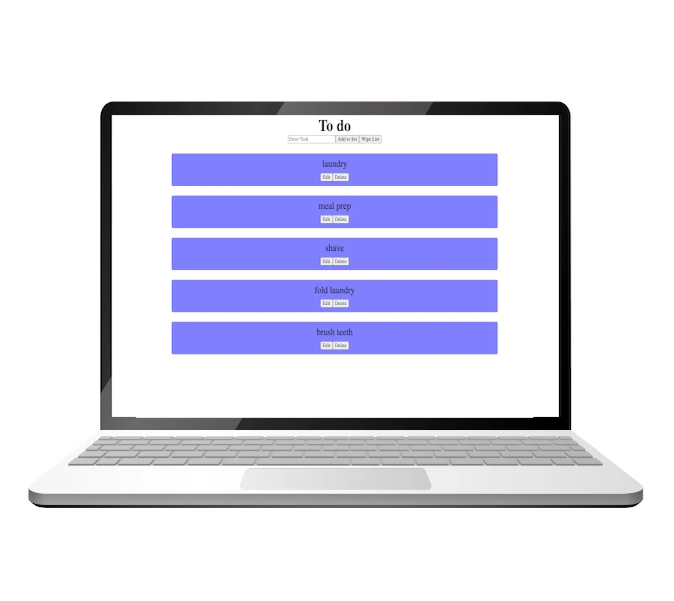
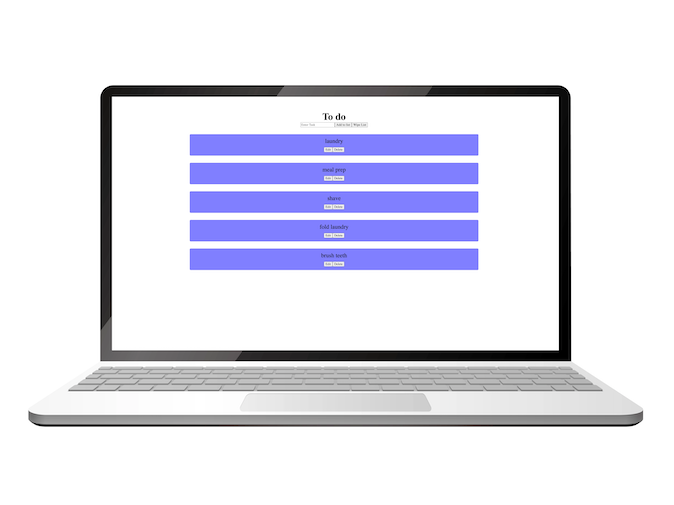
added new pictures for the fodmap project; the old pictures were from version 1 when you could only type a specific ingredient in. Changed the naming of pictures for the barbershop site. Deleted some unneeded pictures, which I believe was from the template. Changed the todoApp pictures as they were 

diff --git a/index.html b/index.html
@@ -74,10 +74,10 @@
 										<li><a target="_blank" href="https://github.com/andmperotti/CleanCuts">Code <i class="fa-solid fa-code" style="color: #000000;"></i></a></li>
 									</ul>
 									<img
-										srcset="images/imacBarberMobile.WebP 249w, images/imacBarberTablet.WebP 674w, images/imacBarber.WebP 979w"
+										srcset="images/cleanCutsMobile.WebP 249w, images/cleanCutsTablet.WebP 674w, images/cleanCuts.WebP 979w"
 										sizes="(min-width: 1700px) 979px, (min-width: 1300px) 806px, (min-width: 1240px) 717px, (min-width: 960px) calc(29.62vw + 356px), (min-width: 500px) calc(65vw - 65px), (min-width: 380px) calc(70vw - 56px), calc(46.67vw + 63px)"
 										class="projectPic" 
-										src="/images/imacBarber.WebP"
+										src="/images/cleanCuts.WebP"
 										alt="Barbershop website image"
 										id="barber-imac">
 								</header>
@@ -96,7 +96,7 @@
 									<li><a target="_blank" href="https://github.com/andmperotti/FODMapChecker">Code <i class="fa-solid fa-code" style="color: #000000;"></i></a></li>
 								</ul>
 								<img
-									srcset="images/fodmapmobileMobile.WebP 249w, images/fodmapmobileTablet.WebP 674w, images/fodmapmobile.WebP 979w"
+									srcset="images/fodmapMobile.WebP 249w, images/fodmapTablet.WebP 674w, images/fodmap.WebP 979w"
 									sizes="(min-width: 1700px) 979px, (min-width: 1300px) 806px, (min-width: 1240px) 717px, (min-width: 960px) calc(29.62vw + 356px), (min-width: 500px) calc(65vw - 65px), (min-width: 380px) calc(70vw - 56px), calc(46.67vw + 63px)"
 									class="projectPic" 
 									src="/images/fodmapmobile.WebP" 
